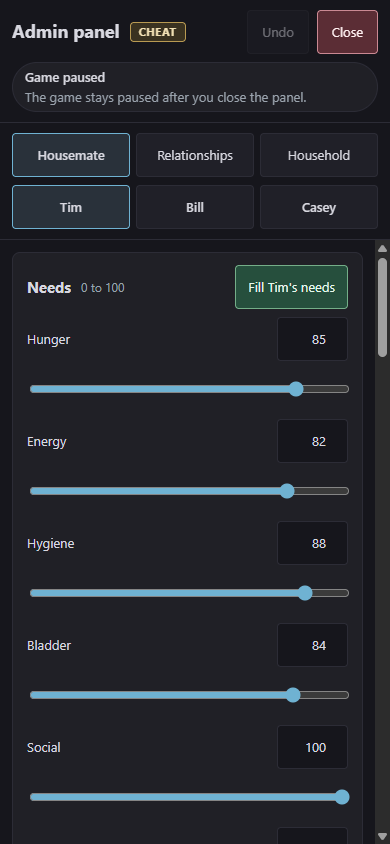
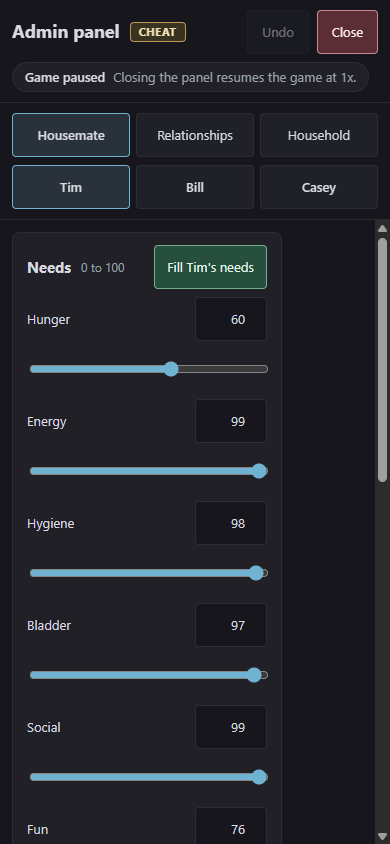
Stretch the phone Housemate sections to the full width

diff --git a/web/src/ui/admin-panel.css b/web/src/ui/admin-panel.css
@@ -267,7 +267,7 @@
   .admin-trait-row.admin-slider-row > .admin-number { grid-column: 2; grid-row: 2; }
   .admin-trait-row.admin-slider-row > .admin-word { align-self: center; }
   /* One column in the mockup's order: Needs, Life satisfaction, Mood, Repetition, Likes, then Skills, Traits, Career. */
-  .admin-housemate { display: flex; flex-direction: column; gap: 14px; }
+  .admin-housemate { display: flex; flex-direction: column; align-items: stretch; gap: 14px; }
   .admin-housemate > .admin-column { display: contents; }
   .admin-housemate > .admin-column:nth-child(2) > :first-child { order: 1; }
   .admin-housemate > .admin-column:nth-child(1) > .admin-section-fold { order: 2; }
